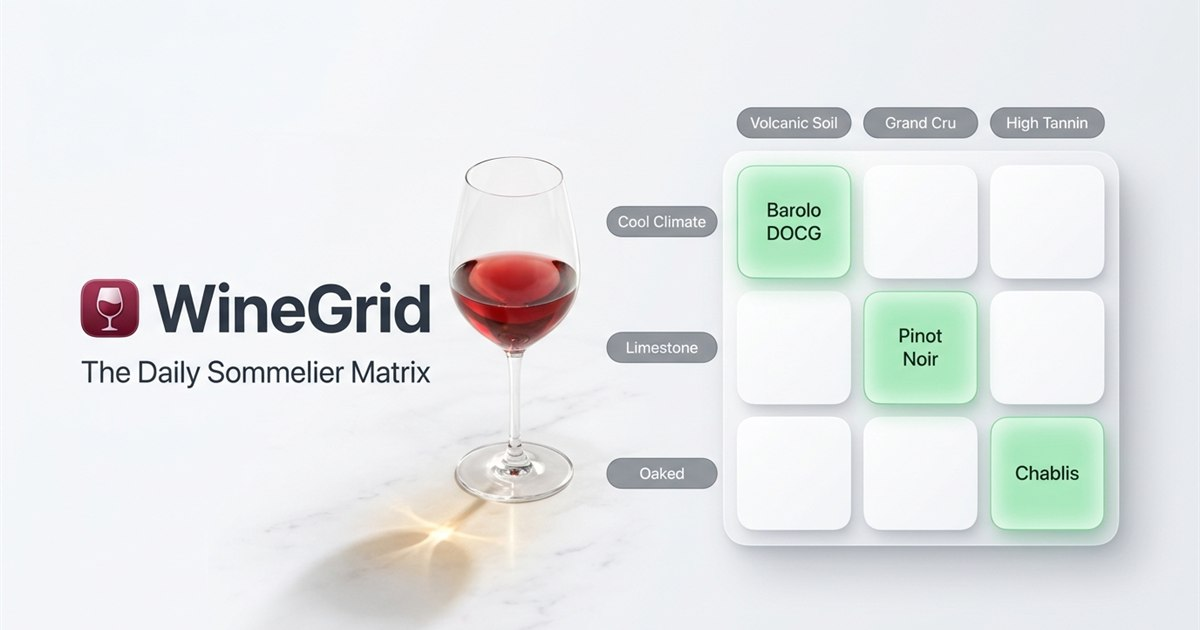
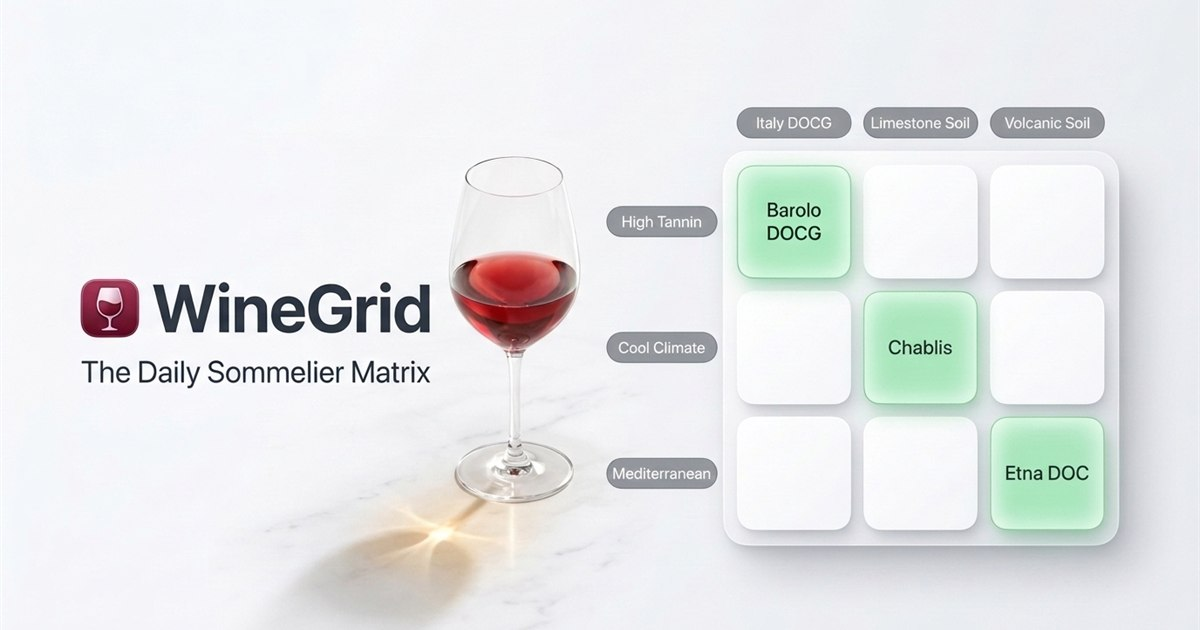
feat(seo): update hero preview image with sommelier-accurate Barolo, Chablis, and Etna DOC matrix

diff --git a/src/app/layout.tsx b/src/app/layout.tsx
@@ -34,7 +34,7 @@ export const metadata: Metadata = {
       "Can you solve today's 3x3 Wine Matrix? Match Regions, Grapes & Iconic Producers across Terroir, Soil, and Classification.",
     images: [
       {
-        url: `${SITE_URL}/og-hero.jpg`,
+        url: `${SITE_URL}/og-hero-v3.jpg`,
         width: 1200,
         height: 630,
         type: "image/jpeg",
@@ -47,7 +47,7 @@ export const metadata: Metadata = {
     title: "WineGrid | The Daily Sommelier Matrix",
     description:
       "Can you solve today's 3x3 Wine Matrix? Match Regions, Grapes & Iconic Producers across Terroir, Soil, and Classification.",
-    images: [`${SITE_URL}/og-hero.jpg`],
+    images: [`${SITE_URL}/og-hero-v3.jpg`],
   },
 };
 
